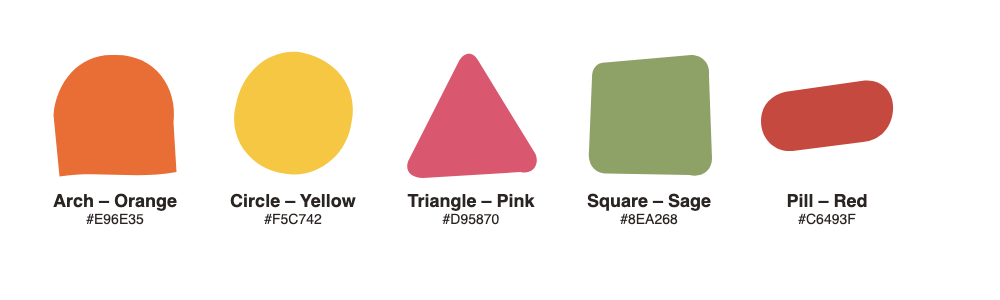
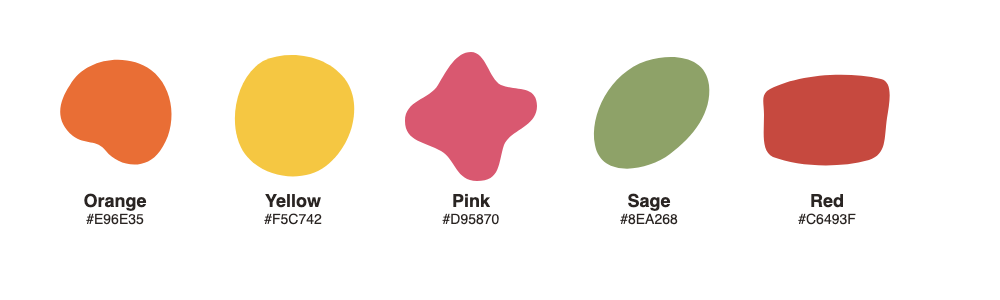
Organic cut-paper brand shapes, named by color

diff --git a/v2/index.html b/v2/index.html
@@ -103,9 +103,9 @@
           </h1>
           <p class="hello__lead" data-reveal="2">In-home naturalistic therapy, taught through music, paint, dance, theater, and whatever creative channels your child desires.</p>
           <ul class="badges" data-reveal="3">
-            <li><img class="shp" src="../assets/img/shapes/arch.svg?v=3" alt="" aria-hidden="true"><span>In your home</span></li>
-            <li><img class="shp" src="../assets/img/shapes/circle.svg?v=3" alt="" aria-hidden="true"><span>BCBA-led</span></li>
-            <li><img class="shp" src="../assets/img/shapes/triangle.svg?v=3" alt="" aria-hidden="true"><span>Dallas, Austin, and rural Texas</span></li>
+            <li><img class="shp" src="../assets/img/shapes/orange.svg?v=4" alt="" aria-hidden="true"><span>In your home</span></li>
+            <li><img class="shp" src="../assets/img/shapes/yellow.svg?v=4" alt="" aria-hidden="true"><span>BCBA-led</span></li>
+            <li><img class="shp" src="../assets/img/shapes/pink.svg?v=4" alt="" aria-hidden="true"><span>Dallas, Austin, and rural Texas</span></li>
           </ul>
           <div class="btns" data-reveal="4">
             <a class="paper-btn" href="#contact" data-magnetic data-jump="contact" data-cta="wave" data-eyes><span>Talk to us</span></a>
@@ -194,9 +194,9 @@
           <h2 data-reveal="2">Your child leads. We teach.</h2>
         </header>
         <ol class="path">
-          <li data-reveal><img class="path__shp" src="../assets/img/shapes/arch.svg?v=3" alt="" aria-hidden="true"><span class="path__n">01</span><strong>Your child picks</strong><span>The drum, the paint, the puppet, the trains.</span></li>
-          <li data-reveal="2"><img class="path__shp" src="../assets/img/shapes/circle.svg?v=3" alt="" aria-hidden="true"><span class="path__n">02</span><strong>We weave in the goals</strong><span>A BCBA builds each goal into the game.</span></li>
-          <li data-reveal="3"><img class="path__shp" src="../assets/img/shapes/triangle.svg?v=3" alt="" aria-hidden="true"><span class="path__n">03</span><strong>You see it grow</strong><span>Progress you can see, at home and at the dinner table.</span></li>
+          <li data-reveal><img class="path__shp" src="../assets/img/shapes/orange.svg?v=4" alt="" aria-hidden="true"><span class="path__n">01</span><strong>Your child picks</strong><span>The drum, the paint, the puppet, the trains.</span></li>
+          <li data-reveal="2"><img class="path__shp" src="../assets/img/shapes/yellow.svg?v=4" alt="" aria-hidden="true"><span class="path__n">02</span><strong>We weave in the goals</strong><span>A BCBA builds each goal into the game.</span></li>
+          <li data-reveal="3"><img class="path__shp" src="../assets/img/shapes/pink.svg?v=4" alt="" aria-hidden="true"><span class="path__n">03</span><strong>You see it grow</strong><span>Progress you can see, at home and at the dinner table.</span></li>
         </ol>
       </div>
     </section>
@@ -214,9 +214,9 @@
           <h2 data-reveal="2">Once a month, we take learning out into the world.</h2>
           <p data-reveal="2">Kids get together, try something new, and practice social skills in real places, with our RBTs right there to support them.</p>
           <ul class="rows">
-            <li><button class="row" data-detail="tpl-out-1" data-cursor="Open" data-reveal><img class="shp row__shp" src="../assets/img/shapes/arch.svg?v=3" alt="" aria-hidden="true"><strong>Artist-led workshops</strong><span class="row__go">→</span></button></li>
-            <li><button class="row" data-detail="tpl-out-2" data-cursor="Open" data-reveal="2"><img class="shp row__shp" src="../assets/img/shapes/circle.svg?v=3" alt="" aria-hidden="true"><strong>Field trips</strong><span class="row__go">→</span></button></li>
-            <li><button class="row" data-detail="tpl-out-3" data-cursor="Open" data-reveal="3"><img class="shp row__shp" src="../assets/img/shapes/triangle.svg?v=3" alt="" aria-hidden="true"><strong>Open house for new families</strong><span class="row__go">→</span></button></li>
+            <li><button class="row" data-detail="tpl-out-1" data-cursor="Open" data-reveal><img class="shp row__shp" src="../assets/img/shapes/orange.svg?v=4" alt="" aria-hidden="true"><strong>Artist-led workshops</strong><span class="row__go">→</span></button></li>
+            <li><button class="row" data-detail="tpl-out-2" data-cursor="Open" data-reveal="2"><img class="shp row__shp" src="../assets/img/shapes/yellow.svg?v=4" alt="" aria-hidden="true"><strong>Field trips</strong><span class="row__go">→</span></button></li>
+            <li><button class="row" data-detail="tpl-out-3" data-cursor="Open" data-reveal="3"><img class="shp row__shp" src="../assets/img/shapes/pink.svg?v=4" alt="" aria-hidden="true"><strong>Open house for new families</strong><span class="row__go">→</span></button></li>
           </ul>
           <div class="glass-card" data-reveal>
             <p class="glass-card__label">Next up</p>
@@ -272,7 +272,7 @@
       <h2 data-reveal="2">Support in the places a child knows.</h2>
       <div class="places">
         <button class="place place--big" data-detail="tpl-dallas" data-cursor="Open" data-reveal>
-          <img class="place__shape" src="../assets/img/shapes/circle.svg?v=3" alt="" aria-hidden="true">
+          <img class="place__shape" src="../assets/img/shapes/yellow.svg?v=4" alt="" aria-hidden="true">
           <span class="place__name">Dallas</span>
           <span class="place__text">Our home base. In-home ABA across the Dallas area.</span>
         </button>

diff --git a/index.html b/index.html
@@ -71,9 +71,9 @@
         <h1>ABA in every <span class="c-orange">color</span>, <span class="c-pink">beat</span>, and <span class="hl">shape.</span></h1>
         <p class="lead">In-home naturalistic therapy, taught through music, paint, dance, theater, and whatever creative channels your child desires.</p>
         <ul class="badges">
-          <li><img class="shp" src="assets/img/shapes/arch.svg?v=3" alt="" aria-hidden="true"><span>In your home</span></li>
-          <li><img class="shp" src="assets/img/shapes/circle.svg?v=3" alt="" aria-hidden="true"><span>BCBA-led</span></li>
-          <li><img class="shp" src="assets/img/shapes/triangle.svg?v=3" alt="" aria-hidden="true"><span>Dallas, Austin, and rural Texas</span></li>
+          <li><img class="shp" src="assets/img/shapes/orange.svg?v=4" alt="" aria-hidden="true"><span>In your home</span></li>
+          <li><img class="shp" src="assets/img/shapes/yellow.svg?v=4" alt="" aria-hidden="true"><span>BCBA-led</span></li>
+          <li><img class="shp" src="assets/img/shapes/pink.svg?v=4" alt="" aria-hidden="true"><span>Dallas, Austin, and rural Texas</span></li>
         </ul>
         <div class="btn-row">
           <a class="paper-btn" href="#contact" data-cta="wave" data-eyes><span>Talk to us</span></a>
@@ -186,21 +186,21 @@
         <p class="lead">Kids get together, try something new, and practice social skills in real places, with our RBTs right there to support them.</p>
         <ul class="outings">
           <li class="outing">
-            <img class="shp outing__shp" src="assets/img/shapes/arch.svg?v=3" alt="" aria-hidden="true">
+            <img class="shp outing__shp" src="assets/img/shapes/orange.svg?v=4" alt="" aria-hidden="true">
             <div>
               <h3>Artist-led workshops</h3>
               <p>Local artists host hands-on sessions in painting, making, and building.</p>
             </div>
           </li>
           <li class="outing">
-            <img class="shp outing__shp" src="assets/img/shapes/circle.svg?v=3" alt="" aria-hidden="true">
+            <img class="shp outing__shp" src="assets/img/shapes/yellow.svg?v=4" alt="" aria-hidden="true">
             <div>
               <h3>Field trips</h3>
               <p>Dance studios, museums, and other places around town, explored together.</p>
             </div>
           </li>
           <li class="outing">
-            <img class="shp outing__shp" src="assets/img/shapes/triangle.svg?v=3" alt="" aria-hidden="true">
+            <img class="shp outing__shp" src="assets/img/shapes/pink.svg?v=4" alt="" aria-hidden="true">
             <div>
               <h3>Open house for new families</h3>
               <p>Curious about our program? Come meet the team and see how we work.</p>
@@ -316,19 +316,19 @@
       <h2>Support in the places a child knows.</h2>
       <div class="places">
         <div class="place">
-          <img class="shp place__shp" src="assets/img/shapes/circle.svg?v=3" alt="" aria-hidden="true">
+          <img class="shp place__shp" src="assets/img/shapes/yellow.svg?v=4" alt="" aria-hidden="true">
           <h3>Dallas</h3>
           <p>In-home ABA across the Dallas area.</p>
           <p class="todo small">List the cities or ZIP codes you cover.</p>
         </div>
         <div class="place">
-          <img class="shp place__shp" src="assets/img/shapes/triangle.svg?v=3" alt="" aria-hidden="true">
+          <img class="shp place__shp" src="assets/img/shapes/pink.svg?v=4" alt="" aria-hidden="true">
           <h3>Austin</h3>
           <p>In-home ABA across the Austin area.</p>
           <p class="todo small">List the cities or ZIP codes you cover.</p>
         </div>
         <div class="place">
-          <img class="shp place__shp" src="assets/img/shapes/square.svg?v=3" alt="" aria-hidden="true">
+          <img class="shp place__shp" src="assets/img/shapes/sage.svg?v=4" alt="" aria-hidden="true">
           <h3>Telehealth</h3>
           <p>Support for families in rural Texas, wherever they are.</p>
           <p class="todo small">Describe what telehealth support includes.</p>

diff --git a/README.md b/README.md
@@ -79,15 +79,15 @@ for the white outline.
 
 ## Brand shapes (locked)
 
-Every icon on the site uses one of five fixed shapes in `assets/img/shapes/`
+Every icon on the site uses one of five fixed cut-paper shapes in `assets/img/shapes/`
 (SVG for the web, PNG for print or slides). See `_reference-sheet.png`.
 
-| Shape | Color | Used for |
+| File | Color | Used for |
 | --- | --- | --- |
-| Arch | Orange #E96E35 | In your home · step 1 · workshops |
-| Circle | Yellow #F5C742 | BCBA-led · step 2 · field trips · Dallas |
-| Triangle | Pink #D95870 | Dallas, Austin & rural Texas · step 3 · open house · Austin |
-| Square | Sage #8EA268 | Telehealth |
-| Pill | Red #C6493F | Spare |
+| `orange` | #E96E35 | In your home · step 1 · workshops |
+| `yellow` | #F5C742 | BCBA-led · step 2 · field trips · Dallas |
+| `pink` | #D95870 | Dallas, Austin & rural Texas · step 3 · open house · Austin |
+| `sage` | #8EA268 | Telehealth |
+| `red` | #C6493F | Spare |
 
 Don't redraw or recolor these; reuse the files.
